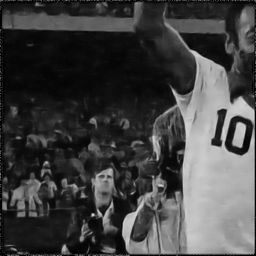
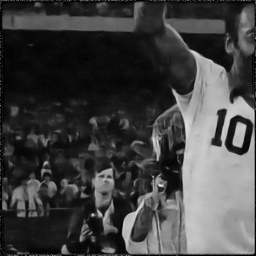
gaussian25

diff --git a/Noisier2Noise-main/test.py b/Noisier2Noise-main/test.py
@@ -21,9 +21,9 @@ parser.add_argument('--exp_num', default=10, type=int)
 parser.add_argument('--n_epochs', default=180, type=int)
 
 # Test parameters
-parser.add_argument('--noise', default='gauss_27', type=str)  # 'gauss_intensity', 'poisson_intensity'
+parser.add_argument('--noise', default='gauss_25', type=str)  # 'gauss_intensity', 'poisson_intensity'
 parser.add_argument('--dataset', default='Set12', type=str)  # BSD100, Kodak, Set12
-parser.add_argument('--aver_num', default=30, type=int)
+parser.add_argument('--aver_num', default=20, type=int)
 parser.add_argument('--alpha', default=1.0, type=float)
 
 # Transformations
@@ -198,13 +198,13 @@ def generate(args):
             cv2.imwrite(os.path.join(save_dir, '{}th_overlap_median.png'.format(index+1)), sample_overlap_median)
             cv2.imwrite(os.path.join(save_dir, '{}th_noisier.png'.format(index + 1)),sample_noisier)  # Save noisier image
 
-        # Total PSNR, SSIM
-        print('{} Average PSNR | noisy:{:.3f}, prediction:{:.3f}, overlap_mean:{:.3f}, overlap_median:{:.3f}'.format(
-            args.dataset, noisy_psnr, prediction_psnr, overlap_psnr_mean, overlap_psnr_median))
-        print('{} Average SSIM | noisy:{:.3f},  prediction:{:.3f}, overlap_mean:{:.3f}, overlap_median:{:.3f}'.format(
-            args.dataset, noisy_ssim, prediction_ssim, overlap_ssim_mean, overlap_ssim_median))
-        print('Average Time for Prediction | denoised:{}'.format(avg_time2))
-        print('Average Time for Overlap | denoised:{}'.format(avg_time3))
+    # Total PSNR, SSIM
+    print('{} Average PSNR | noisy:{:.3f}, prediction:{:.3f}, overlap_mean:{:.3f}, overlap_median:{:.3f}'.format(
+        args.dataset, noisy_psnr, prediction_psnr, overlap_psnr_mean, overlap_psnr_median))
+    print('{} Average SSIM | noisy:{:.3f},  prediction:{:.3f}, overlap_mean:{:.3f}, overlap_median:{:.3f}'.format(
+        args.dataset, noisy_ssim, prediction_ssim, overlap_ssim_mean, overlap_ssim_median))
+    print('Average Time for Prediction | denoised:{}'.format(avg_time2))
+    print('Average Time for Overlap | denoised:{}'.format(avg_time3))
 
 
 if __name__ == "__main__":
